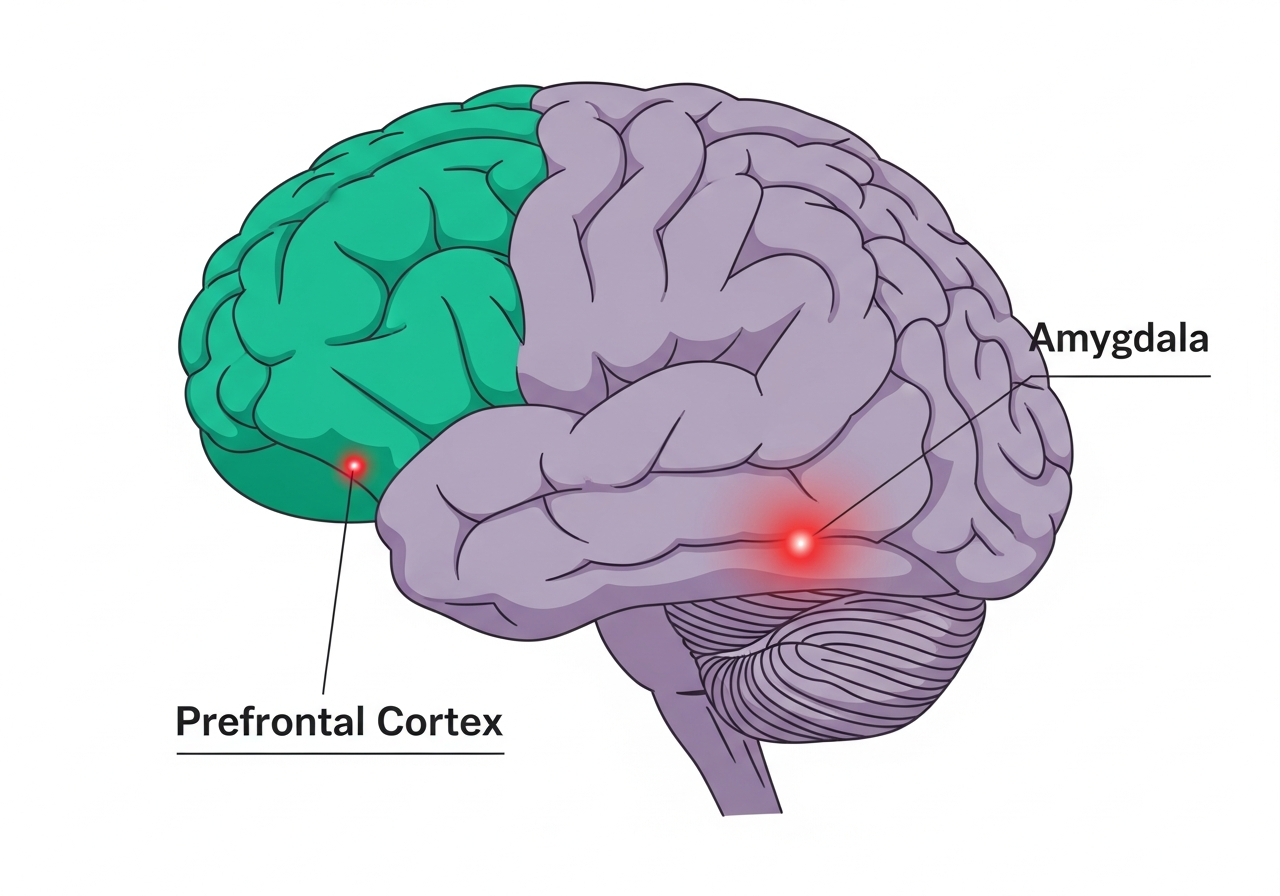
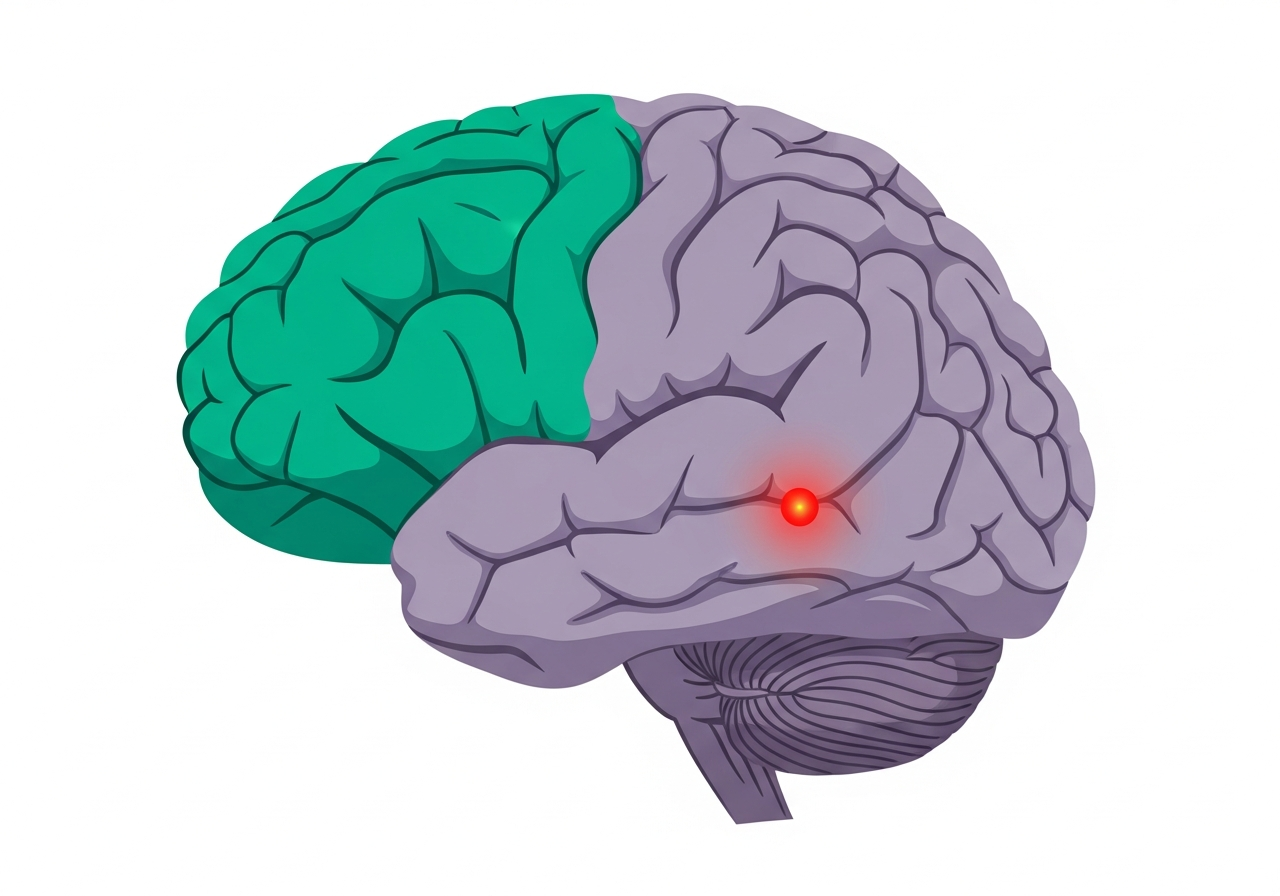
Add labels to the brain diagram image using code
Update the BrainDiagram component to overlay styled text labels for "Prefrontal Cortex" and "Amygdala" onto the brain image, replacing baked-in labels.

Replit-Commit-Author: Agent
Replit-Commit-Session-Id: d1f8a7d4-8b7f-4b90-9bc2-a6458d305568
Replit-Commit-Checkpoint-Type: full_checkpoint
Replit-Commit-Event-Id: 0d025d57-3b6a-4b50-8754-75d1f78feaaa
Replit-Commit-Screenshot-Url: https://storage.googleapis.com/screenshot-production-us-central1/4c95a031-2c5e-4b74-be58-e59bc4ed52cc/d1f8a7d4-8b7f-4b90-9bc2-a6458d305568/gvklvpa
Replit-Helium-Checkpoint-Created: true

Changed region(s): [[0.125, 0.0938, 0.9375, 0.9375]]

diff --git a/components/BrainDiagram.tsx b/components/BrainDiagram.tsx
@@ -1,18 +1,93 @@
 import React from "react";
-import { Image } from "react-native";
+import { View, Text, Image } from "react-native";
 
 interface Props {
   isDark: boolean;
   width?: number;
 }
 
-export function BrainDiagram({ width = 300 }: Props) {
+export function BrainDiagram({ isDark, width = 300 }: Props) {
   const height = width * (3 / 4);
+
   return (
-    <Image
-      source={require("@/assets/images/brain_diagram_nobg.png")}
-      style={{ width, height, borderRadius: 12 }}
-      resizeMode="contain"
-    />
+    <View style={{ width, height }}>
+      <Image
+        source={require("@/assets/images/brain_diagram_nobg.png")}
+        style={{ width, height }}
+        resizeMode="contain"
+      />
+
+      {/* Prefrontal Cortex label — top-left, over the teal region */}
+      <View
+        style={{
+          position: "absolute",
+          top: height * 0.06,
+          left: width * 0.0,
+          alignItems: "flex-start",
+        }}
+      >
+        <View
+          style={{
+            backgroundColor: "#00897B",
+            borderRadius: 20,
+            paddingHorizontal: 10,
+            paddingVertical: 5,
+            shadowColor: "#000",
+            shadowOffset: { width: 0, height: 2 },
+            shadowOpacity: 0.3,
+            shadowRadius: 4,
+            elevation: 4,
+          }}
+        >
+          <Text
+            style={{
+              fontFamily: "Nunito_700Bold",
+              fontSize: 11,
+              color: "#fff",
+              letterSpacing: 0.3,
+            }}
+          >
+            Prefrontal Cortex
+          </Text>
+        </View>
+        <Text style={{ fontSize: 18, marginLeft: 14, lineHeight: 14 }}>↓</Text>
+      </View>
+
+      {/* Amygdala label — positioned over the red dot (center-right of brain) */}
+      <View
+        style={{
+          position: "absolute",
+          top: height * 0.44,
+          right: width * 0.04,
+          alignItems: "flex-end",
+        }}
+      >
+        <View
+          style={{
+            backgroundColor: "#C62828",
+            borderRadius: 20,
+            paddingHorizontal: 10,
+            paddingVertical: 5,
+            shadowColor: "#000",
+            shadowOffset: { width: 0, height: 2 },
+            shadowOpacity: 0.3,
+            shadowRadius: 4,
+            elevation: 4,
+          }}
+        >
+          <Text
+            style={{
+              fontFamily: "Nunito_700Bold",
+              fontSize: 11,
+              color: "#fff",
+              letterSpacing: 0.3,
+            }}
+          >
+            Amygdala
+          </Text>
+        </View>
+        <Text style={{ fontSize: 18, marginRight: 14, lineHeight: 14, textAlign: "right" }}>↙</Text>
+      </View>
+    </View>
   );
 }
